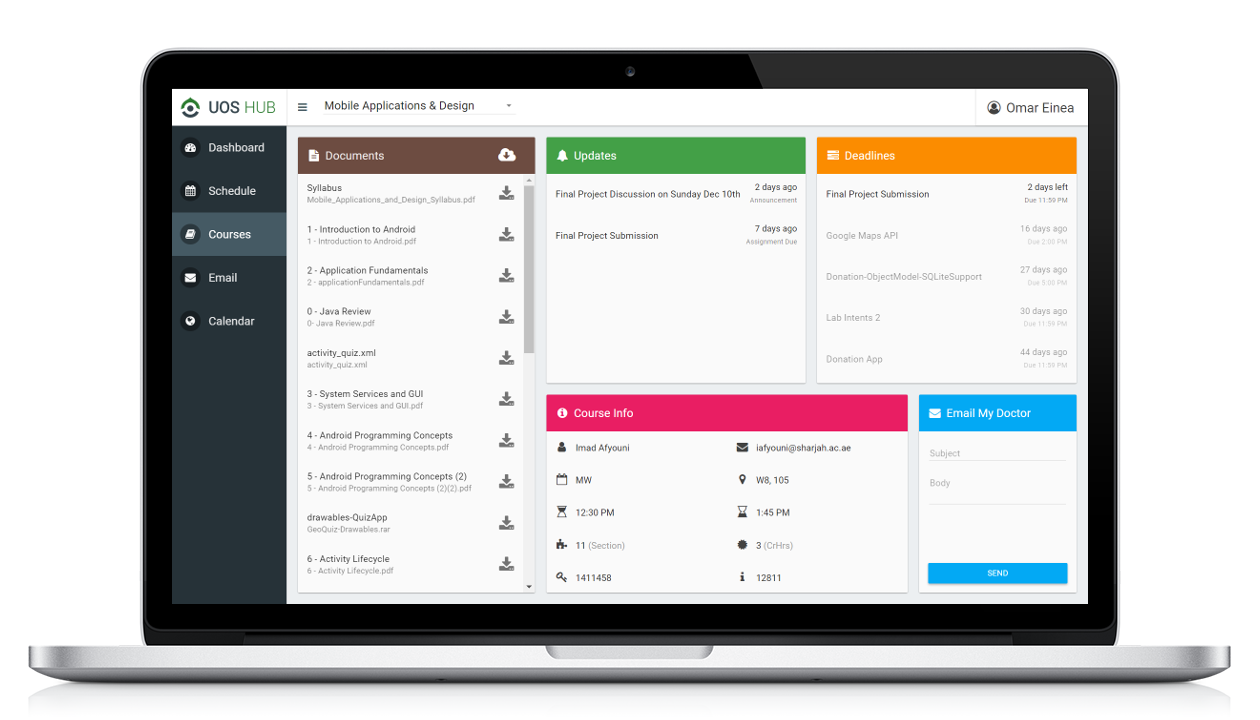
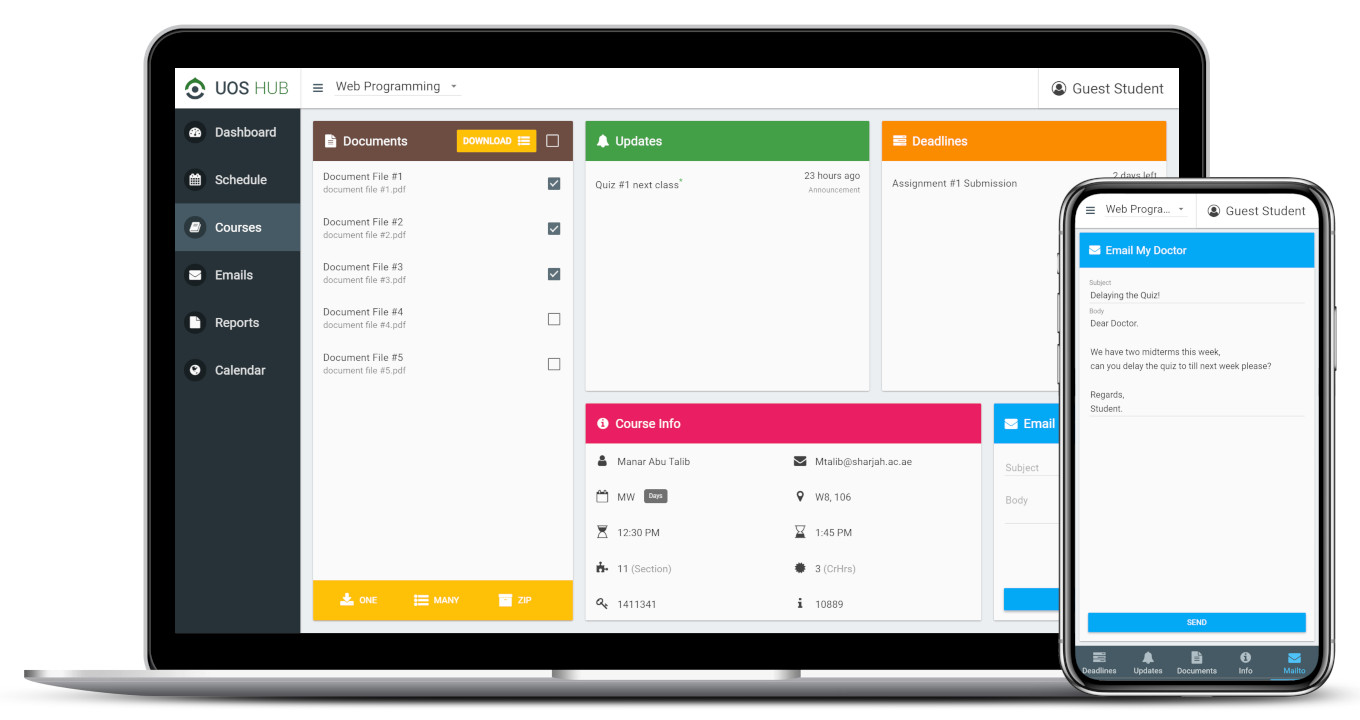
Updated All Welcome Page Slideshow Images & Added One For Reports

diff --git a/welcome.html b/welcome.html
@@ -11,9 +11,9 @@
                 Demo (without login)
             </md-button>
         </div>
-        <div layout="column" flex-gt-xs="60" flex-xs="noshrink" flex-order-xs="1">
+        <div layout="column" flex-gt-xs="60" flex-xs="noshrink" flex-order-xs="1" style="margin-top: 16px">
             <img ng-repeat="(image, icon) in ::pages track by $index" class="fill-width"
-                 ng-src="/static/img/{{ ::image }}.png" ng-show="$index == counter"/>
+                ng-src="/static/img/{{ ::image }}.png" ng-show="$index == counter"/>
         </div>
     </div>
 </div>

diff --git a/js/welcome.js b/js/welcome.js
@@ -4,13 +4,14 @@ function($scope, $interval, $http, $ls, $goto) {
     $scope.counter = 0;
     $interval(function() {
         $scope.counter++;
-        $scope.counter %= 5;
+        $scope.counter %= 6;
     }, 2000);
 
     $scope.startDemo = function() {
         $http.get("/api/demo/").then(function(response) {
             $ls.$default(angular.merge({
                 session: { version: version },
+                emails: { action: "select" },
                 selected: {
                     term: term,
                     email: [],
